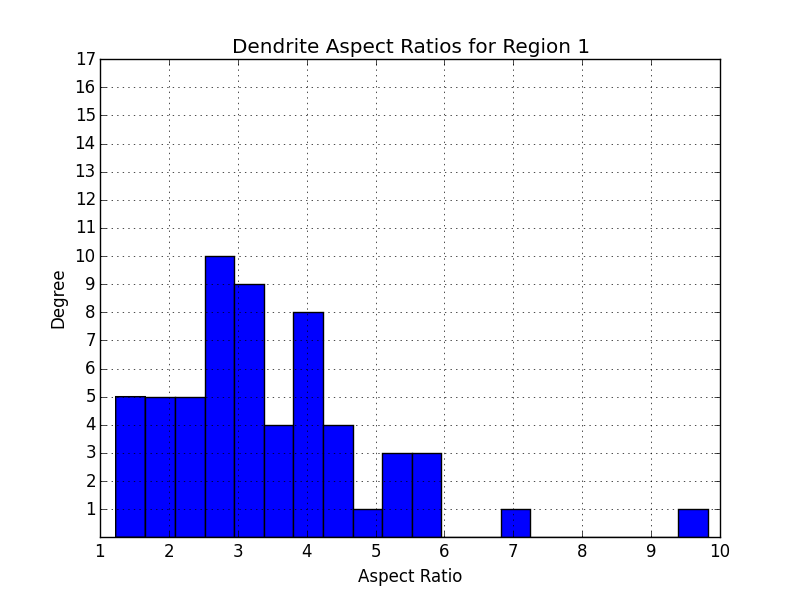
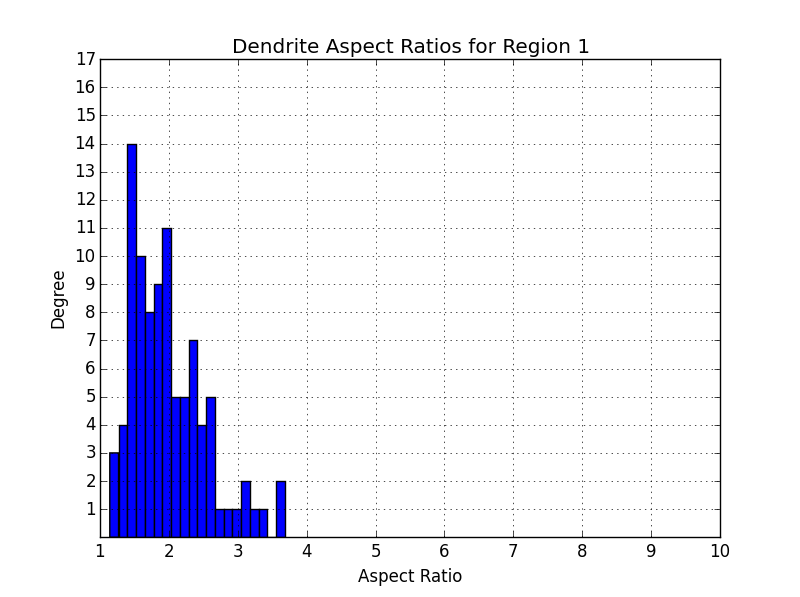
region ave and std made, 1 undef, 5, def

Changed region(s): [[0.125, 0.2412, 0.5625, 0.9045], [0.8438, 0.8442, 0.9062, 0.9045], [0.625, 0.8442, 0.6875, 0.9045]]

diff --git a/ellipseStatistics.py b/ellipseStatistics.py
@@ -49,7 +49,6 @@ def plot_daily_average(data):
     ax.set_xlabel('Date')
     ax.set_ylabel('Average')
     dates = [' '] + dates
-    print(dates)
     ax.set_xticklabels(dates)
     
 def plot_daily_distribution(data):
@@ -83,19 +82,32 @@ def plot_histograms(data):
     
     usage: stats = plot_histograms(dendriteData)
     '''
-    frame1, mean1, std1 = plot_histogram_for_region(data, [3, 4, 5], 1)
-    frame2, mean2, std2 = plot_histogram_for_region(data, [6, 7, 8, 9, 10], 2)      
+    frame5, mean5, std5 = plot_histogram_for_region(data, [3, 4, 5], 5)
+    frame4, mean4, std4 = plot_histogram_for_region(data, [6, 7, 8, 9, 10], 4)      
     frame3, mean3, std3 = plot_histogram_for_region(data, [11, 12, 13, 14, 15], 3)
-    frame4, mean4, std4 = plot_histogram_for_region(data, [16, 17, 18, 19, 20], 4)
-    frame5, mean5, std5 = plot_histogram_for_region(data, [21, 22, 23, 24, 25], 5)
-    
+    frame2, mean2, std2 = plot_histogram_for_region(data, [16, 17, 18, 19, 20], 2)
+    frame1, mean1, std1 = plot_histogram_for_region(data, [21, 22, 23, 24, 25], 1)
     stats = pandas.DataFrame([[1, mean1, std1], [2, mean2, std2], [3, mean3, std2], [4, mean4, std4], [5, mean5, std5]], columns = ['region', 'mean', 'std'])
+    
     return stats
+    
+def plot_region_average(stats):
+    '''
+    Plots the average and standard deviation (as error bars) for each strain region of the sample. 
+    
+    '''
+    ax = stats.plot(kind = 'scatter', title = 'Region Aspect Ratio Average', x = 'region', y = 'mean', yerr = 'std')    
+    ax.set_xlabel('Region')
+    ax.set_ylabel('Average Aspect Ratio') 
+    labels = ['undeformed', '1', '2', '3', '4', '5', 'deformed']
+    ax.set_xticklabels(labels)
     
 def main():
     d = pandas.read_csv('BMGMC_dendrite_data_with_locations.csv', sep = ",", header = 0)
     #adds new column of aspect ratios to data frame
     d['aspect_ratio'] = d['long_axis'] / d['short_axis']   
-    plot_daily_average(d)
+    stats = plot_histograms(d)
+    plot_region_average(stats)
+    
 
     
